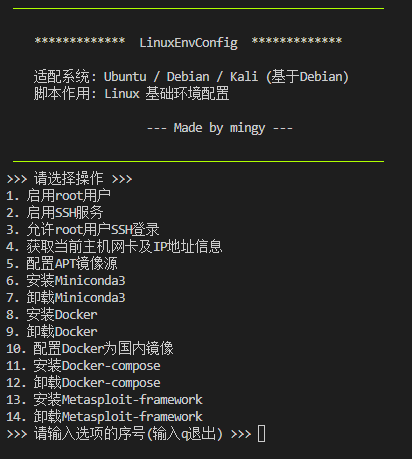
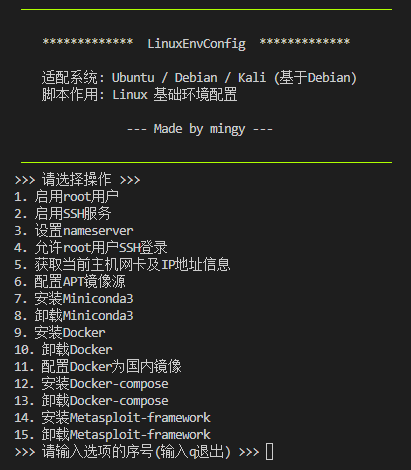
Add config_nameserver

diff --git a/README.md b/README.md
@@ -6,18 +6,19 @@ Ubuntu / Debian / Kali Linux 基础环境配置脚本
 
 1. 启用root用户
 2. 启用SSH服务
-3. 允许root用户SSH登录
-4. 获取当前主机网卡及IP地址信息
-5. 配置APT镜像源
-6. 安装Miniconda3
-7. 卸载Miniconda3
-8. 安装Docker
-9. 卸载Docker
-10. 配置Docker为国内镜像
-11. 安装Docker-compose
-12. 卸载Docker-compose
-13. 安装Metasploit-framework
-14. 卸载Metasploit-framework
+3. 设置nameserver
+4. 允许root用户SSH登录
+5. 获取当前主机网卡及IP地址信息
+6. 配置APT镜像源
+7. 安装Miniconda3
+8. 卸载Miniconda3
+9. 安装Docker
+10. 卸载Docker
+11. 配置Docker为国内镜像
+12. 安装Docker-compose
+13. 卸载Docker-compose
+14. 安装Metasploit-framework
+15. 卸载Metasploit-framework
 
 ## 使用
 
